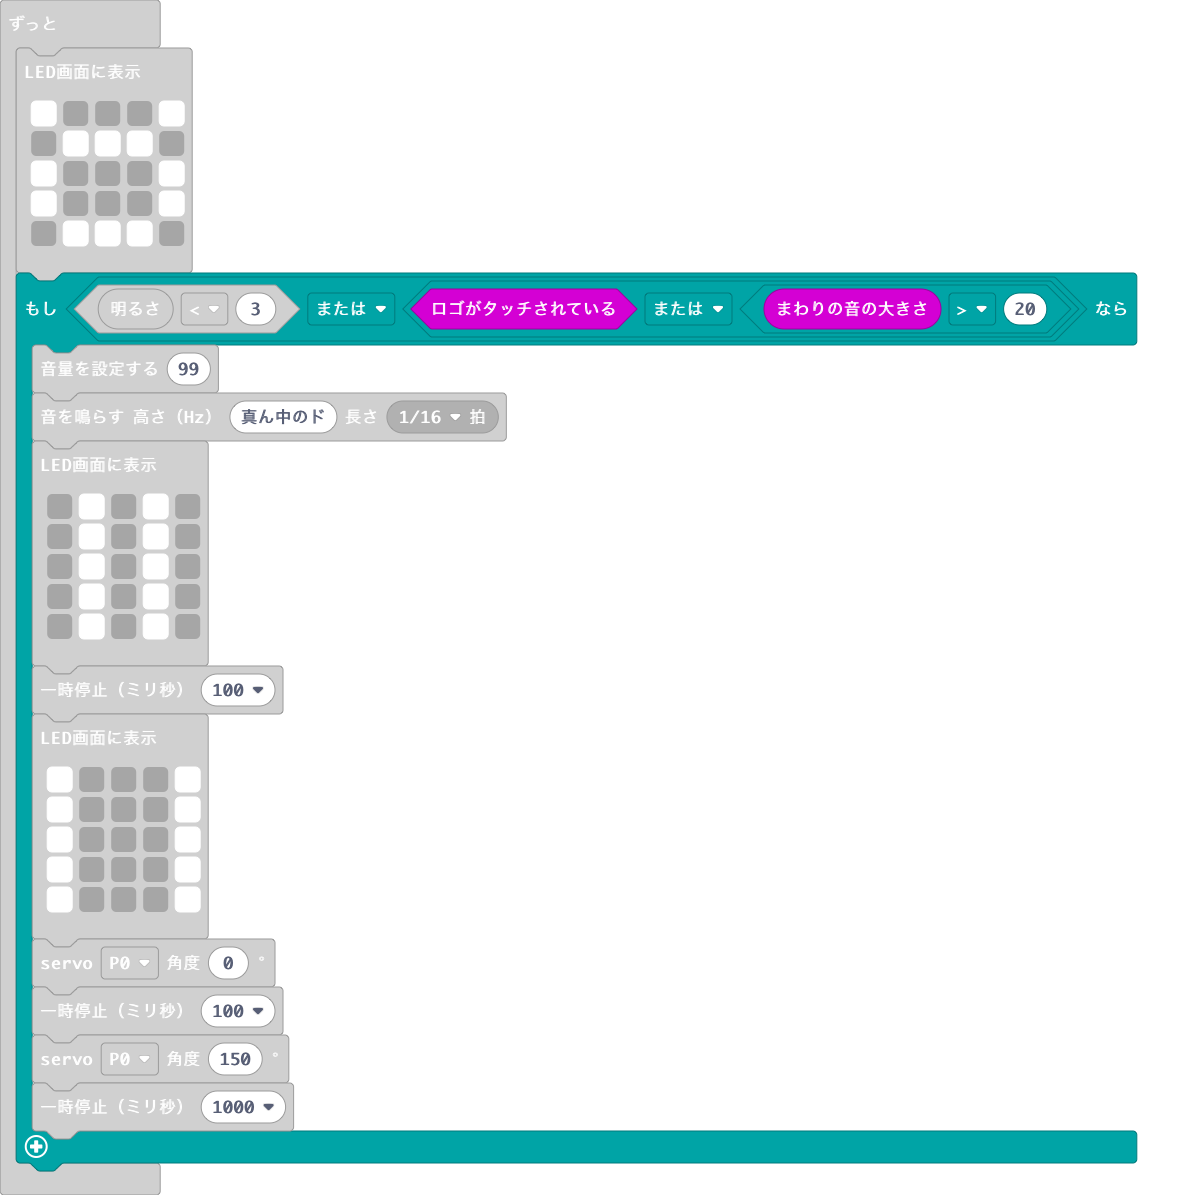
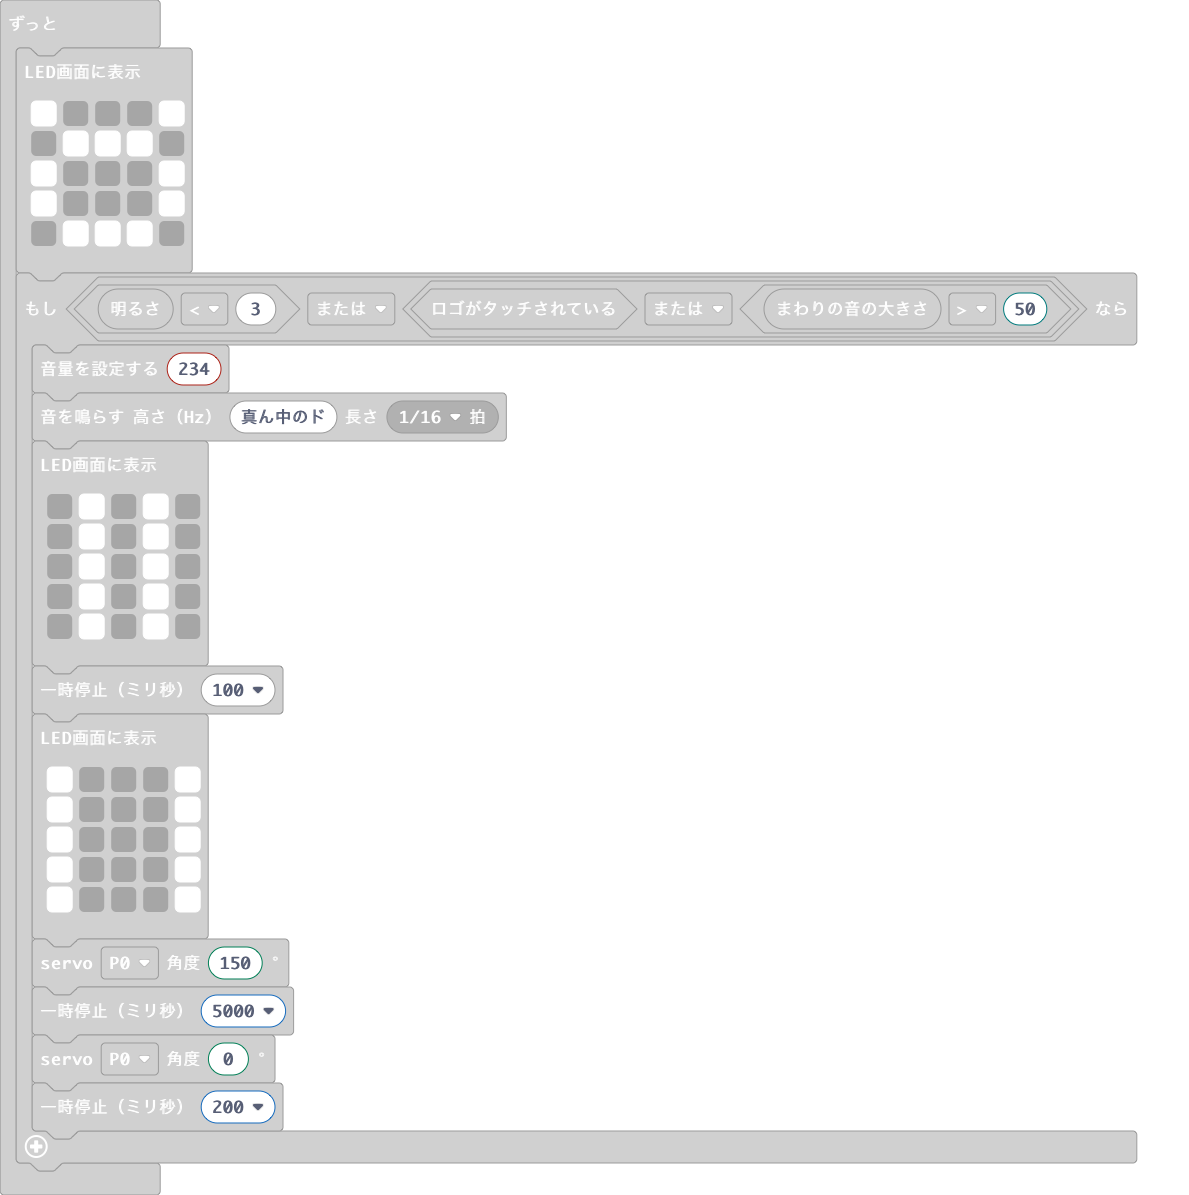
adopt to the real hardware

Changed region(s): [[0.0, 0.2167, 0.9647, 0.9908]]

diff --git a/main.ts b/main.ts
@@ -6,8 +6,8 @@ basic.forever(function () {
         # . . . #
         . # # # .
         `)
-    if (input.lightLevel() < 3 || (input.logoIsPressed() || input.soundLevel() > 20)) {
-        music.setVolume(99)
+    if (input.lightLevel() < 3 || (input.logoIsPressed() || input.soundLevel() > 50)) {
+        music.setVolume(234)
         music.playTone(262, music.beat(BeatFraction.Sixteenth))
         basic.showLeds(`
             . # . # .
@@ -24,9 +24,9 @@ basic.forever(function () {
             # . . . #
             # . . . #
             `)
-        servos.P0.setAngle(0)
-        basic.pause(100)
         servos.P0.setAngle(150)
-        basic.pause(1000)
+        basic.pause(5000)
+        servos.P0.setAngle(0)
+        basic.pause(200)
     }
 })
